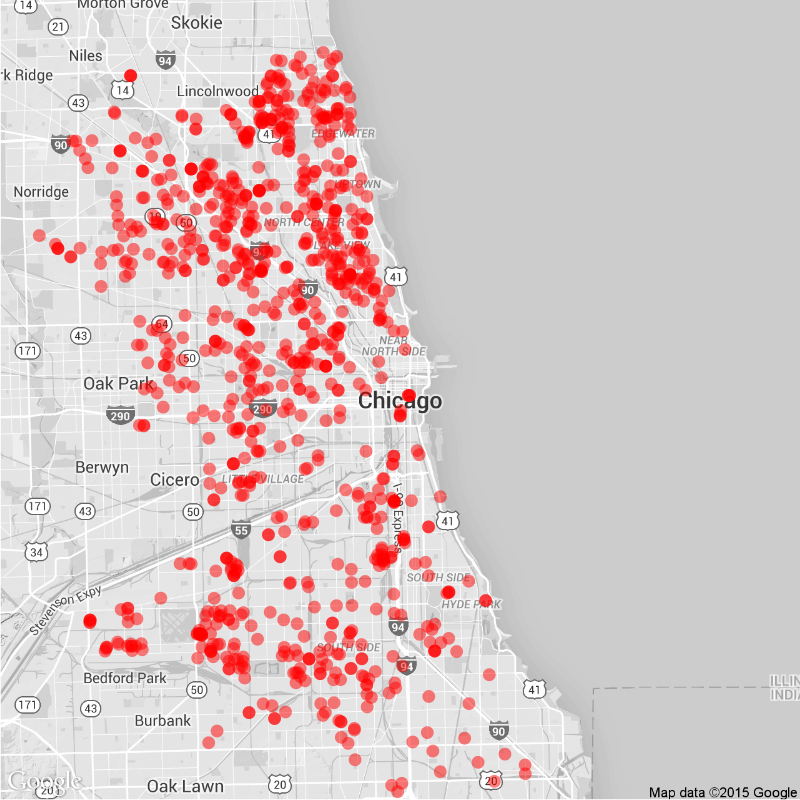
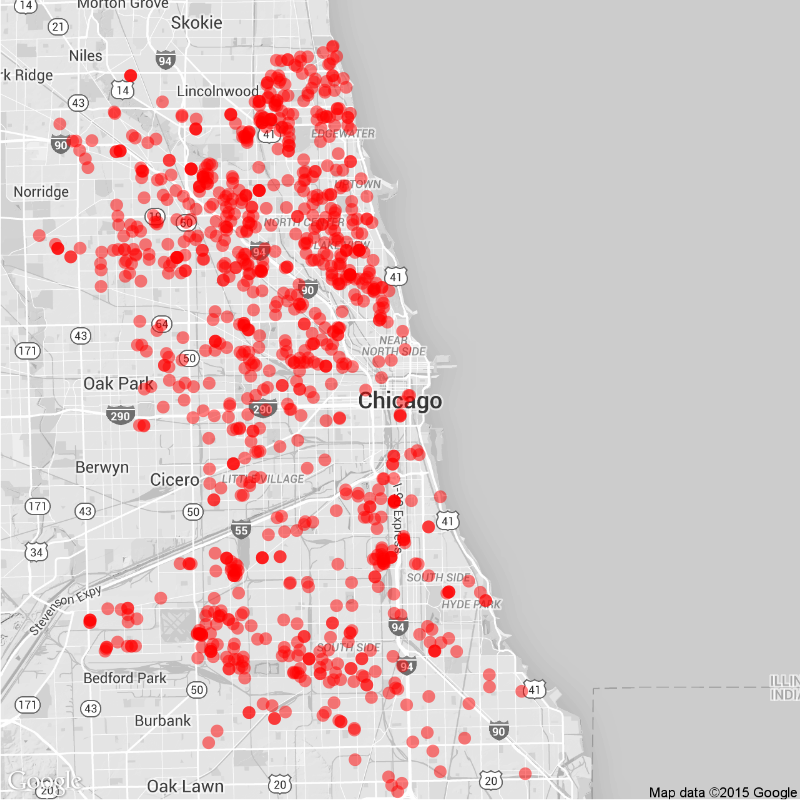
Daily Maps

diff --git a/daily.md b/daily.md
@@ -15,22 +15,22 @@ tags: Chicago NYC weekly daily rats
 
 ### Daily
 
-Yesterday (July 14), there were 204 calls to Chicago's 311 line about rats.
+Yesterday (July 15), there were 160 calls to Chicago's 311 line about rats.
 ![Chicago rat calls to 311 weekly map]({{ site.cityimages }}/daily/Chicago_Rat_Map_Daily.png)
 
 ### Weekly
-Between July 08 and July 14, there were 983 calls to Chicago's 311 line about rats. The average number of weekly calls for this time of year is 874.
+Between July 09 and July 15, there were 996 calls to Chicago's 311 line about rats. The average number of weekly calls for this time of year is 874.
 ![Chicago rat calls to 311 weekly map]({{ site.cityimages }}/daily/Chicago_Rat_Map_Weekly.png)
 ***
 # New York City <a id="nyc"><a>
 
 ### Daily
 
-Yesterday (July 14), there were 0 calls to New York City's 311 line about rats.
+Yesterday (July 15), there were 0 calls to New York City's 311 line about rats.
 ![NYC rat calls to 311 weekly map]({{ site.cityimages }}/daily/NYC_Rat_Map_Daily.png)
 
 ### Weekly
-Between July 08 and July 14, there were 0 calls to New York City's 311 line about rats. The average number of weekly calls for this time of year is 276.
+Between July 09 and July 15, there were 0 calls to New York City's 311 line about rats. The average number of weekly calls for this time of year is 276.
 ![NYC rat calls to 311 weekly map]({{ site.cityimages }}/daily/NYC_Rat_Map_Weekly.png)
 
 Each red dot represents one call about a rat seen in that location. The dots are transparent, so multiple calls from one location will be seen as a solid dot. The usual caveats apply: more calls do not necessarily mean that there are more rats in that location than other parts of the city. A cluster of dots could indicate that one resident is unusually vocal about rodents in his or her neighborhood. Also, more densely populated neighborhoods tend to make more calls to 311.
